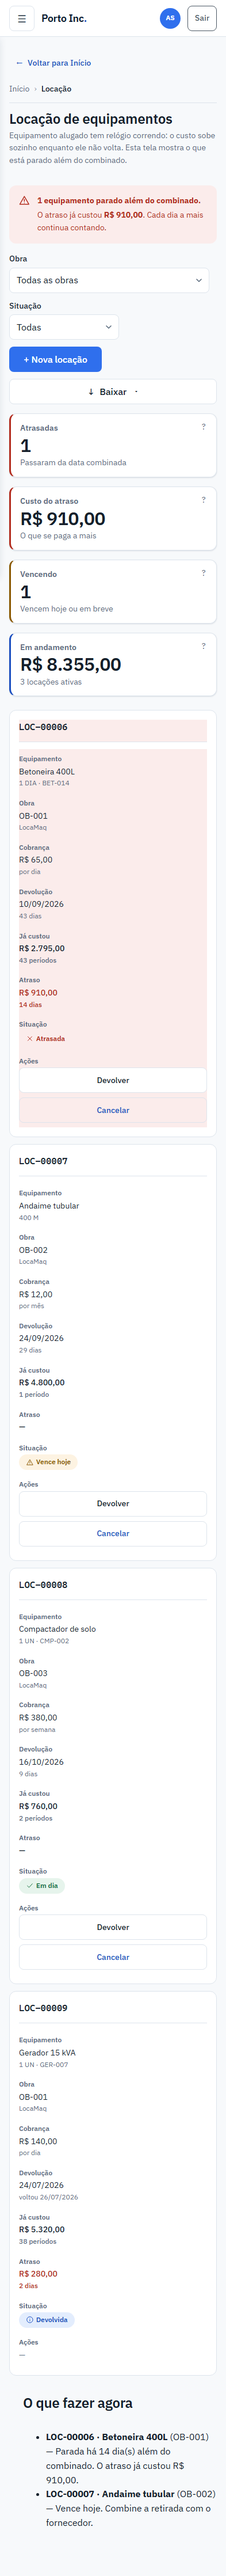
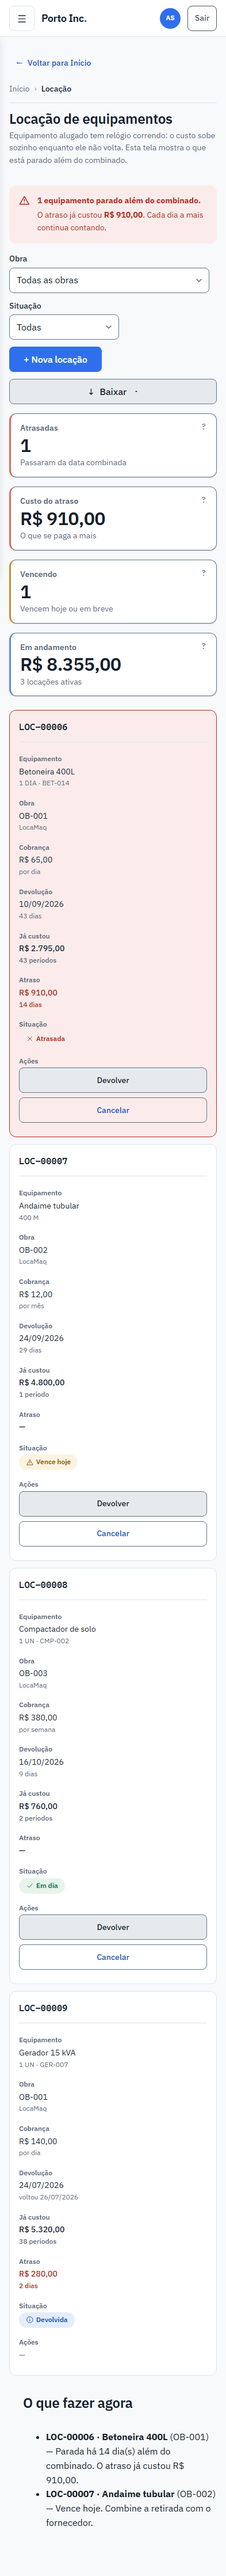
A cor da situacao pinta o cartao, e nao retangulos soltos dentro dele
Achado pelo usuario no iPhone dele. A regua nao pega: nada transborda,
nada rola de lado, o contraste passa.

O DEFEITO
  `.linha-vencida > *` pinta as CELULAS. Isso e o certo enquanto a
  linha e linha — a celula tem fundo proprio e cobriria o do <tr>.
  No celular a linha VIRA o cartao, e as celulas ficam recuadas pelo
  padding dele: a cor virava retangulos soltos, com moldura branca em
  volta e um vao branco embaixo do titulo. O cartao parecia quebrado.

  Valia para as tres: .linha-destacada, .linha-atencao, .linha-vencida.

A CORRECAO
  No modo cartao a cor volta para o <tr>, a celula fica transparente,
  e a borda acompanha a cor — senao ficava cor por dentro e moldura
  cinza por fora.

A REGRA NOVA, E A PROVA DELA
  `pente-fino` ganhou COR_DE_LINHA_SEM_MODO_CARTAO: cobra que toda
  classe que pinta `> *` tenha contrapartida com `.tabela-area--cartoes`.

  Provada antes de entrar, contra o CSS de HEAD~1:
    CSS de antes -> acusa .linha-destacada, .linha-atencao, .linha-vencida
    CSS de agora -> cala
  Regra que so sabe calar nao vale nada.

Verificado: tipos compilam, conferidor aprovado, 125 provas de tela,
regua 34/34 em 1440 e 420, e 34/34 em 393.

Changed region(s): [[0.0305, 0.1553, 0.0611, 0.2796]]

diff --git a/frontend/src/estilos/cadastros.css b/frontend/src/estilos/cadastros.css
@@ -923,6 +923,38 @@ input[type='file'].campo__entrada {
   background: var(--erro-leve);
 }
 
+/* ------------------------------------------------------------
+   A cor da situação no modo cartão
+
+   Pintar `> *` é o certo ENQUANTO a linha é linha: a célula tem
+   fundo próprio e cobriria o do `<tr>`.
+
+   No celular a linha VIRA o cartão, e as células ficam recuadas
+   pelo padding dele. O resultado eram retângulos de cor soltos,
+   com moldura branca em volta e um vão branco embaixo do título —
+   o cartão parecia quebrado. Visto no iPhone em 24/09/2026; a
+   régua não pega isso, porque nada transborda nem rola.
+
+   Aqui a cor volta para o cartão inteiro, e a célula fica limpa.
+   ------------------------------------------------------------ */
+@media (max-width: 640px) {
+  .tabela-area--cartoes .tabela tbody tr.linha-destacada { background: var(--info-leve); }
+  .tabela-area--cartoes .tabela tbody tr.linha-atencao   { background: var(--atencao-leve); }
+  .tabela-area--cartoes .tabela tbody tr.linha-vencida   { background: var(--erro-leve); }
+
+  .tabela-area--cartoes .tabela tbody tr.linha-destacada > *,
+  .tabela-area--cartoes .tabela tbody tr.linha-atencao > *,
+  .tabela-area--cartoes .tabela tbody tr.linha-vencida > * {
+    background: transparent;
+  }
+
+  /* A borda acompanha, para o cartão não ficar com cor por dentro
+     e moldura cinza por fora. */
+  .tabela-area--cartoes .tabela tbody tr.linha-destacada { border-color: var(--info-texto); }
+  .tabela-area--cartoes .tabela tbody tr.linha-atencao   { border-color: var(--atencao-texto); }
+  .tabela-area--cartoes .tabela tbody tr.linha-vencida   { border-color: var(--erro-texto); }
+}
+
 /* Um <label> que se comporta como botão, para o campo de
    arquivo do XML ficar com a mesma aparência dos outros. */
 .rotulo-arquivo {

diff --git a/frontend/src/componentes/Layout.tsx b/frontend/src/componentes/Layout.tsx
@@ -116,7 +116,7 @@ export function Layout() {
               <Icone nome="cadeado" className="menu__icone" />
               Trocar minha senha
             </NavLink>
-            <p className="menu__versao">versão 0.27.0</p>
+            <p className="menu__versao">versão 0.27.1</p>
           </div>
         </nav>
 
